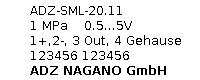
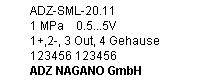
разобраться со щрифтами

diff --git a/Stickers/src/command/Command801877.java b/Stickers/src/command/Command801877.java
@@ -5,7 +5,6 @@ import java.io.InputStreamReader;
 
 import model.Label;
 import model.LabelFactory;
-import model.LabelsFiller;
 
 public class Command801877 implements Command{
 	
@@ -40,23 +39,8 @@ public class Command801877 implements Command{
 
 	@Override
 	public void execute() {
-		System.out.println("Введите серийный номер");
-		BufferedReader br = new BufferedReader(new InputStreamReader(System.in));
-		String serial_ = br.readLine();
-		this.serial +=serial_;
-		LabelsFiller lf = LabelsFiller.getInstance();
-		Label lb =  model.LabelFactory.getLabel(this.name,this.range,this.pinout, this.serial);
-		
-		
-	}
-
-
-
-	private Label LabelFactory.getLabel(String name2, String range2, String pinout2, String serial2) {
 		// TODO Auto-generated method stub
-		return null;
+		
 	}
-	
-	
 
 }

diff --git a/Stickers/src/view/ConsoleView.java b/Stickers/src/view/ConsoleView.java
@@ -1,6 +1,31 @@
 package view;
 
-public class ConsoleView {
+import java.io.BufferedReader;
+import java.io.IOException;
+import java.io.InputStreamReader;
+import java.nio.charset.Charset;
+
+public class ConsoleView extends View {
+	private BufferedReader br = new BufferedReader(new InputStreamReader(System.in,
+			Charset.forName("UTF-8")));
 	
+	
+	public void init() {
+		System.out.println("Choose art 1- 801877, 2- 806122 ляляля kakaka");
+		
+	}
+
+	@Override
+	public Integer readArt() {
+				try {
+					Integer i = Integer.parseInt(br.readLine());
+					return i;
+			
+		} catch (IOException e) {
+			// TODO Auto-generated catch block
+			e.printStackTrace();
+			return 0;
+		}
+	}
 
 }

diff --git a/Stickers/src/command/ChooseArt.java b/Stickers/src/command/ChooseArt.java
@@ -1,0 +1,22 @@
+package command;
+
+import model.Model;
+import view.View;
+
+public class ChooseArt implements Command {
+	
+	
+	private Model model;
+	private View view;
+	public ChooseArt(Model model, View view) {
+		this.model = model;
+		this.view = view;
+	}
+	@Override
+	public void execute() {
+		Integer art = view.readArt();
+	
+
+	}
+
+}

diff --git a/Stickers/src/controller/Controller.java b/Stickers/src/controller/Controller.java
@@ -1,15 +1,20 @@
 package controller;
 
+
+
 import model.Model;
+import view.ConsoleView;
+import view.View;
 
 public class Controller {
 	private Model model;
+	private View view;
 	
 	
 	public Controller() {
 		this.model = new Model();
-		model.getLabel();
-		model.saveAll();
+		this.view = new ConsoleView();
+		view.init();
 		
 		
 	}

diff --git a/Stickers/src/command/Articles.java b/Stickers/src/command/Articles.java
@@ -4,5 +4,17 @@ public enum Articles {
 	A801877,
 	A801910,
 	A806122,
-	A807372
+	A807372;
+	
+	
+	public static Articles getArtByOrdinal(Integer i) {
+		switch(i) {
+		case 1:
+			return A801877;
+		
+		case 2:
+			return A801910;}
+		return null;
+	}
 }
+

diff --git a/Stickers/src/view/View.java b/Stickers/src/view/View.java
@@ -1,0 +1,7 @@
+package view;
+
+public abstract class View {
+	public abstract Integer readArt();
+	public abstract void init();
+
+}
